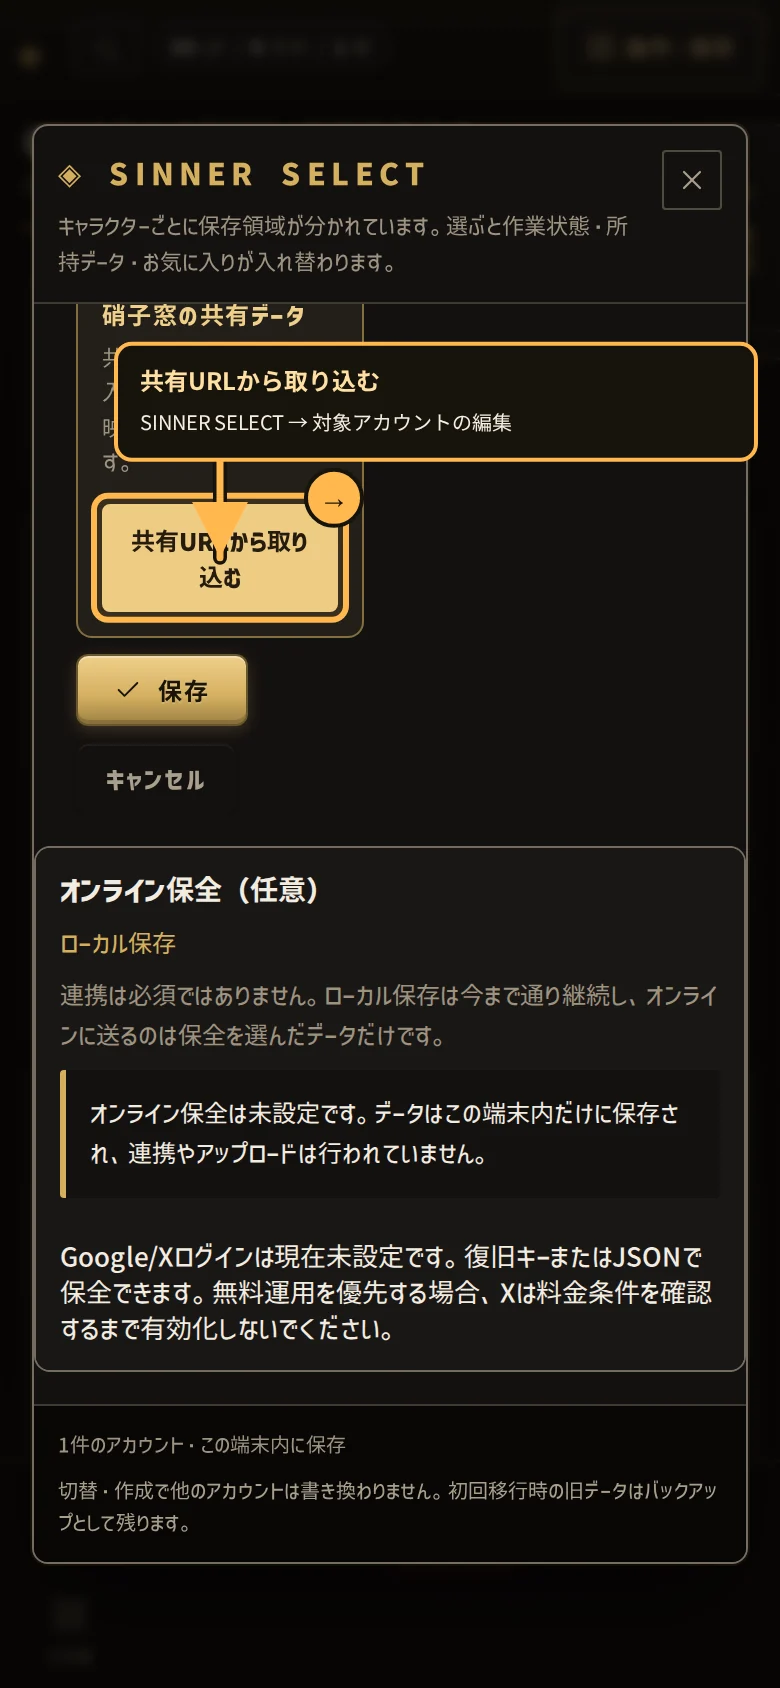
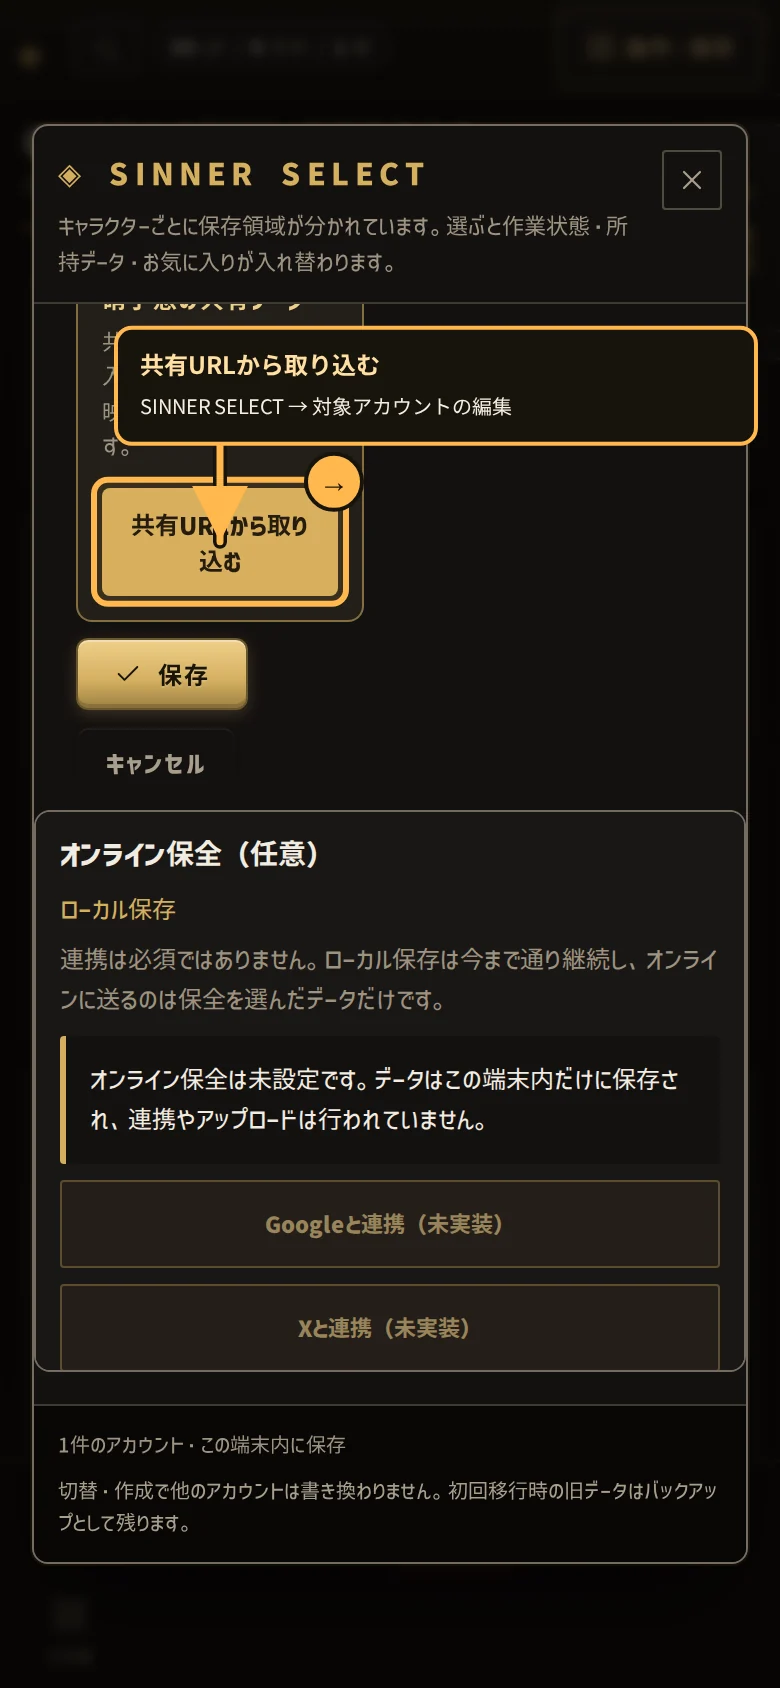
Mark Google and X login as unimplemented
* Mark OAuth login as unimplemented

* Clarify disabled OAuth button cursor

* Refresh cloud backup asset versions

* Refresh Service Worker precache hashes

* Test unimplemented OAuth placeholders

* Document OAuth pricing and availability

* docs: add real UI tutorial screenshots

* Clarify X OAuth metering caveat

---------

Changed region(s): [[0.0615, 0.154, 0.9846, 0.8009], [0.0615, 0.6777, 0.0923, 0.7085]]

diff --git a/js/cloud-backup.js b/js/cloud-backup.js
@@ -30,10 +30,7 @@
     hasRecoveryKey: false,
     recoveryKeyEnabled: false,
     syncEnabled: false,
-    localMeaningful: false,
-    providerSettingsLoaded: false,
-    providerSettingsAvailable: false,
-    providers: { google: false, x: false }
+    localMeaningful: false
   };
 
   function emit(patch = {}) {
@@ -710,31 +707,9 @@
     syncTimer = setTimeout(syncAutomatically, 1800);
   }
 
-  async function refreshProviderAvailability() {
-    let available = false;
-    const providers = { google: false, x: false };
-    try {
-      const response = await fetch(SUPABASE_URL + "/auth/v1/settings", {
-        headers: { "apikey": SUPABASE_PUBLISHABLE_KEY }
-      });
-      if (response.ok) {
-        const settings = await response.json();
-        const external = settings && typeof settings.external === "object" ? settings.external : {};
-        providers.google = external.google === true;
-        providers.x = external.x === true;
-        available = true;
-      }
-    } catch (_) {
-      /* Fail closed: do not show sign-in options whose state couldn't be verified. */
-    }
-    emit({ providerSettingsLoaded: true, providerSettingsAvailable: available, providers });
-    return { available, providers };
-  }
-
   async function initialize() {
     if (initialized) return;
     initialized = true;
-    await refreshProviderAvailability();
     await handleOAuthCallback();
     await refresh();
   }
@@ -756,10 +731,10 @@
       catch (error) { emit({ busy: false, label: "処理を完了できませんでした", message: error.message || "処理に失敗しました。ローカルデータはそのままです。" }); }
       finally { emit({ busy: false }); }
     };
-    const button = (label, onClick, extraClass = "") => h("button", {
+    const button = (label, onClick, extraClass = "", disabled = false) => h("button", {
       type: "button",
       className: "acct-upload-btn lbt-cloud-btn " + extraClass,
-      disabled: view.busy,
+      disabled: view.busy || disabled,
       onClick,
     }, label);
     const connected = view.hasSession || view.hasRecoveryKey;
@@ -770,19 +745,14 @@
       ),
       h("p", { className: "lbt-cloud-description" }, "連携は必須ではありません。ローカル保存は今まで通り継続し、オンラインに送るのは保全を選んだデータだけです。"),
       h("p", { className: "lbt-cloud-message", role: "status", "aria-live": "polite" }, view.message),
-      !view.hasSession ? (
-        (view.providers?.google || view.providers?.x)
-          ? h("div", { className: "lbt-cloud-actions" },
-              view.providers?.google ? button("Googleと連携", () => run(() => startOAuth("google"))) : null,
-              view.providers?.x ? button("Xと連携", () => run(() => startOAuth("x"))) : null
-            )
-          : h("p", { className: "lbt-cloud-provider-note", role: "status" },
-              !view.providerSettingsLoaded
-                ? "利用可能なログイン方式を確認中です。"
-                : view.providerSettingsAvailable
-                  ? "Google/Xログインは現在未設定です。復旧キーまたはJSONで保全できます。無料運用を優先する場合、Xは料金条件を確認するまで有効化しないでください。"
-                  : "ログイン方式の設定状態を確認できないため、ログインボタンを表示していません。復旧キーまたはJSONによる保全・復元は利用できます。"
-            )
+      !view.hasSession ? h(React.Fragment, null,
+        h("div", { className: "lbt-cloud-actions" },
+          button("Googleと連携（未実装）", () => {}, "", true),
+          button("Xと連携（未実装）", () => {}, "", true)
+        ),
+        h("p", { className: "lbt-cloud-provider-note", role: "status" },
+          "Google / Xによるログイン連携はまだ使えません。オンライン保全を利用する場合は、復旧キーを発行するか、JSONファイルで保存してください。"
+        )
       ) : h("p", { className: "lbt-cloud-account" }, "オンライン認証済み。このブラウザーからいつでも連携を停止できます。"),
       view.hasSession && view.hasRecoveryKey && view.mode === "recovery" ? button("この復旧キーをGoogle/Xにも結びつける", () => run(linkRecoveryKeyToOAuth)) : null,
       view.hasSession && view.hasRecoveryKey && view.mode === "oauth" && view.recoveryKeyMatches === false ? button("この端末の復旧キーだけ外す", () => run(unlinkRecoveryKeyLocally)) : null,

diff --git a/index.html b/index.html
@@ -219,7 +219,7 @@ window.addEventListener("load", function(){
 		<link rel="stylesheet" href="assets/v65r47-ego-card-marks.css?v=aaf12533">
 									<link rel="stylesheet" href="assets/items.css?v=2c2c655e">
 									<link rel="stylesheet" href="assets/v66-accounts.css?v=16c0d40d">
-<link rel="stylesheet" href="assets/cloud-backup.css?v=cd7fe0d1">
+<link rel="stylesheet" href="assets/cloud-backup.css?v=82bfeda8">
 <link rel="stylesheet" href="assets/v67-persona-redesign.css?v=938462ce">
 <link rel="stylesheet" href="assets/v68-interaction-a11y.css?v=0bbe4495">
 <link rel="stylesheet" href="assets/inline-effect-glossary.css?v=f14d3776">
@@ -256,7 +256,7 @@ window.addEventListener("load", function(){
   <script src="js/gacha-tickets.js?v=2ecc4e1b"></script>
   <script src="js/gacha-identity.js?v=25e8fdfa"></script>
   <script src="js/gacha-proof.js?v=516f754a"></script>
-<script src="js/cloud-backup.js?v=1922802b"></script>
+<script src="js/cloud-backup.js?v=501f0bd8"></script>
 <script src="js/accounts-ui.js?v=6f8fb33c"></script>
 <script src="js/App.js?v=e99d3576"></script>
 <script>

diff --git a/sw.js b/sw.js
@@ -21,12 +21,12 @@
 "use strict";
 
 /* ==== GENERATED (tools/sync-asset-versions.mjs) ==== */
-const CACHE_NAME = "lbt-31039794";
+const CACHE_NAME = "lbt-6810d15d";
 const PRECACHE_URLS = [
   "index.html",
   "share.html",
   "mobile-preview.html",
-  "assets/cloud-backup.css?v=cd7fe0d1",
+  "assets/cloud-backup.css?v=82bfeda8",
   "assets/design-system.css?v=910f9485",
   "assets/fonts/corporate-logo-bold-subset.woff2?v=b56fa468",
   "assets/fonts/corporate-logo-medium-subset.woff2?v=dbbdb67e",
@@ -58,7 +58,7 @@ const PRECACHE_URLS = [
   "js/PersonaCodex.js?v=59018e19",
   "js/SkillDeck.js?v=a93f6cb8",
   "js/accounts-ui.js?v=6f8fb33c",
-  "js/cloud-backup.js?v=1922802b",
+  "js/cloud-backup.js?v=501f0bd8",
   "js/core.js?v=d79b98be",
   "js/ego-slot-forms.js?v=85aa4887",
   "js/gacha-identity.js?v=25e8fdfa",

diff --git a/assets/cloud-backup.css b/assets/cloud-backup.css
@@ -110,7 +110,7 @@
   border-top: 1px solid var(--line-strong);
   font-size: var(--fs-12);
 }
-.lbt-cloud-btn:disabled { opacity: .6; cursor: wait; }
+.lbt-cloud-btn:disabled { opacity: .6; cursor: not-allowed; }
 .lbt-cloud-panel.is-compact { margin-block: var(--s-4); }
 /* The account selector and overlay have bounded height; keep backup controls reachable on small screens. */
 .acct-gate-panel > .lbt-cloud-panel,
